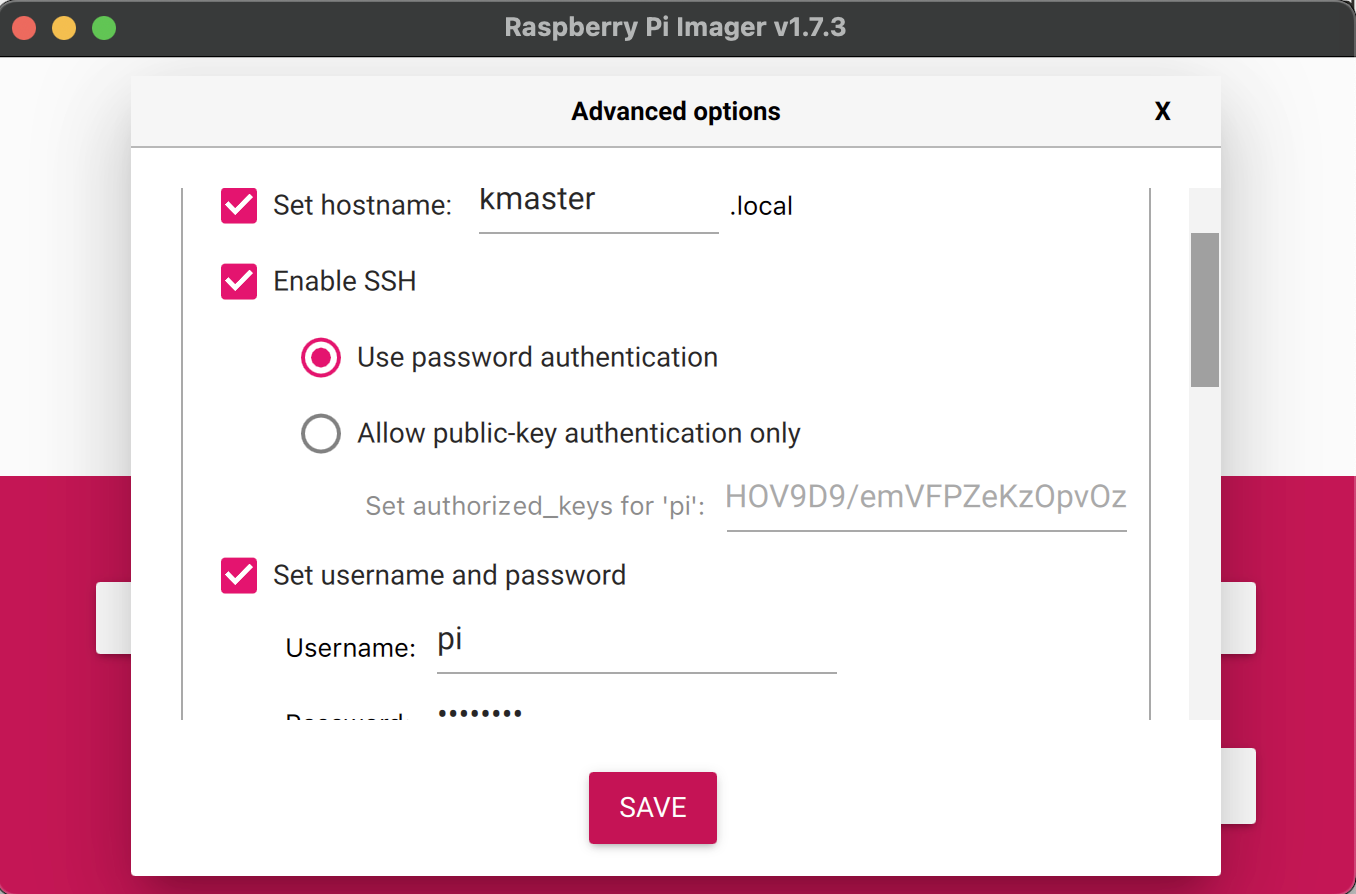
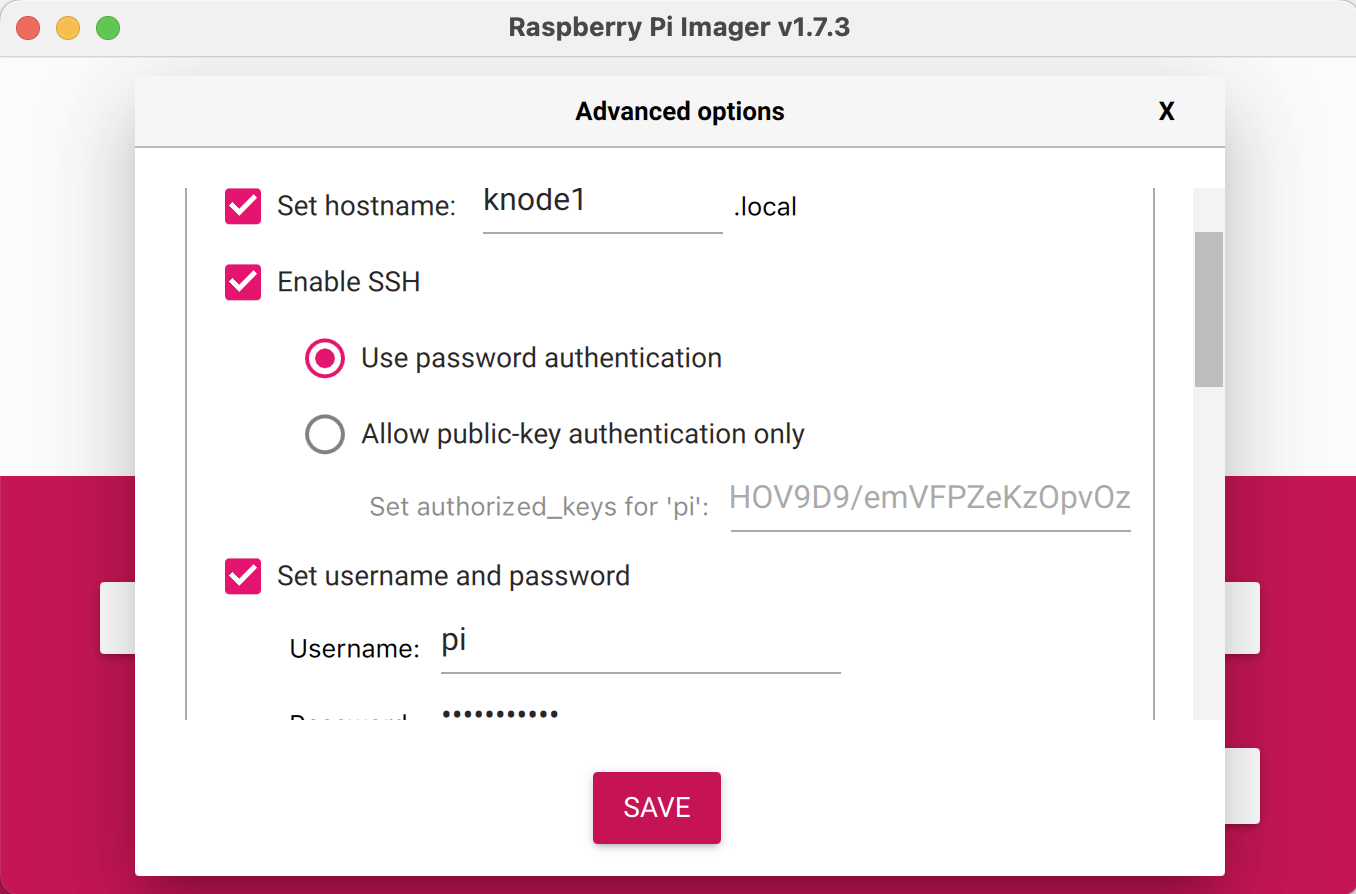
update blog with better wording and odroid setup

diff --git a/content/blog/lightweight-k3s-cluster-raspberry-pi.md b/content/blog/lightweight-k3s-cluster-raspberry-pi.md
@@ -5,71 +5,113 @@ draft: false
 featured: true
 weight: 1
 ---
-As a developer, I was tasked with setting up a local Kubernetes cluster for deploying and managing internal toolings within my company. We decided to set up the cluster on Raspberry Pis in our office. By using Raspberry Pis, we were able to utilize existing hardware and avoid expensive infrastructure costs. However, setting up a full Kubernetes cluster can be challenging, especially on resource-constrained devices like Raspberry Pis. That's why we decided to use k3s, a lightweight version of Kubernetes designed for edge computing and IoT scenarios.
+As a developer at Infraspec, I am responsible for managing internal tooling and ensuring the smooth operation of local
+tooling and network services in our office. We had a cluster of Raspberry Pi devices available and saw an opportunity to
+utilize them by setting up a Kubernetes cluster. This allowed us to cost-effectively utilize our existing hardware and
+avoid the expense of purchasing additional infrastructure. However, we recognized that configuring a full Kubernetes
+cluster on resource-constrained devices like Raspberry Pis could be challenging. To mitigate these difficulties, we
+chose to use k3s, a lightweight version of Kubernetes optimized for edge computing and Internet of Things (IoT)
+environments.
 
-To automate the process and make it easier, we used ansible playbooks and GitHub Actions.
+To automate the process, we used Ansible to set up the k3s cluster and GitHub Actions to deploy services on top of it.
 
-In this blog, I want to share my learnings and a step-by-step configuration setup to provision a lightweight k3s cluster on Raspberry Pis.
+In this blog, I want to share my learnings and a step-by-step configuration setup to provision a lightweight k3s cluster
+on Raspberry Pis.
 
 ### 1. Our Hardware Setup
 
-  ![My Collection](/images/blog/lightweight-k3s-cluster-raspberry-pi/collection.png)
+![My Collection](/images/blog/lightweight-k3s-cluster-raspberry-pi/collection.png)
 
 1. We used 6 Raspberry Pis in total, including:
     - 3 Raspberry Pi 4's with 4GB of RAM
     - 1 Raspberry Pi 4 with 8GB of RAM
     - 2 Raspberry Pi 4's with 2GB of RAM
-    
-    These Raspberry Pi's were used as data nodes in our k3s cluster.
-    
+
+   These Raspberry Pi's were used as data nodes in our k3s cluster.
+
 2. For the control plane, we used an [ODROID-H2](https://www.hardkernel.com/shop/odroid-h2/) which had:
     - 32GB of RAM
     - 500GB SSD
-3. We also used a [NETGEAR GS310TP 8 Port POE Switch](https://www.netgear.com/support/product/GS310TP.aspx#docs), which allowed us to pass both electric power and data along the same twisted-pair Ethernet cabling, making it easier to set up and power multiple devices at once.
+3. We also used a [NETGEAR GS310TP 8 Port POE Switch](https://www.netgear.com/support/product/GS310TP.aspx#docs), which
+   allowed us to pass both electric power and data along the same twisted-pair Ethernet cabling, making it easier to set
+   up and power multiple devices at once.
 
-If you want to know more about Power over Ethernet (PoE), check out this [whitepaper](https://www.saelig.com/supplier/amplicon/PoE-white-paper.pdf). 
+If you want to know more about Power over Ethernet (PoE), check out
+this [whitepaper](https://www.saelig.com/supplier/amplicon/PoE-white-paper.pdf).
 
-Our hardware setup was sufficient for running a k3s cluster for our internal toolings, although it may not have been top-of-the-line. The [ODROID-H2](https://www.hardkernel.com/shop/odroid-h2/) had enough RAM and SSD storage to serve as the control plane. Although the hardware specifications may not be impressive, they were adequate for our needs.
+Our hardware setup was sufficient for running a k3s cluster for our internal tooling, although it may not have been
+top-of-the-line. The [ODROID-H2](https://www.hardkernel.com/shop/odroid-h2/) had enough RAM and SSD storage to serve as
+the control plane. Although the hardware specifications may not be impressive, they were adequate for our needs.
+
+It's important to note that reliability was not a primary concern for our setup, as we were primarily focused on using
+available resources efficiently.
 
 ### 2. Setup Raspberry Pi headless
 
-Setting up a Raspberry Pi headless (without a monitor and keyboard) is a convenient way to use your Pi as a server or in a remote location. I followed these steps:
+To use Raspberry Pis as nodes in our k3s cluster we need to set up Raspberry Pi headless, which means we will not be
+using a monitor, keyboard, or mouse. Instead, we will be using SSH to connect to the Raspberry Pi and configure it
+remotely. Headles setup doesn't have GUI attached to it.
 
-1. Download and install the Raspberry Pi Imager on your computer. You can find it on the official Raspberry Pi website or use the command 
+1. Download and install the Raspberry Pi Imager on your computer. You can find it on the official Raspberry Pi website
+   or use the command
    ```bash
     sudo apt install rpi-imager
    ``` 
 2. Open the Raspberry Pi Imager and select the "CHOOSE OS" option.
-3. From the list of available operating systems, select "Raspberry Pi OS (other)", and then choose "Raspberry Pi OS Lite (64-bit)" and click "CHOOSE STORAGE".
+3. From the list of available operating systems, select "Raspberry Pi OS (other)", and then choose "Raspberry Pi OS
+   Lite (64-bit)" and click "CHOOSE STORAGE".
 
    ![Choose OS](/images/blog/lightweight-k3s-cluster-raspberry-pi/choose_os.png)
 
    ![Choose Storage](/images/blog/lightweight-k3s-cluster-raspberry-pi/choose_storage.png)
 
 4. Select the SD card you want to use for your Raspberry Pi and click on the gear icon to configure Raspberry Pi.
-   
+
    ![Selectl SD Card](/images/blog/lightweight-k3s-cluster-raspberry-pi/select_sd_card.png)
 
-5. Set up a unique hostname for every Raspberry Pi, like kmaster for the control plane node and knode1, knode2, knode3, etc for the data nodes. Activate ssh with password authentication and pass in your ssh credentials. It is recommended to provide the same username and password to all the Raspberry Pis as it becomes easier to run ansible on all the nodes.
-    
+5. Set up a unique hostname for every Raspberry Pi, like **`knode1`**, **`knode2`**, **`knode3`**, etc for each node.
+   Activate ssh with
+   password authentication and pass in your ssh credentials. It is recommended to provide the same username and password
+   to all the Raspberry Pis as it becomes easier to run ansible on all the nodes.
+
    ![Configure Pis](/images/blog/lightweight-k3s-cluster-raspberry-pi/configure_pis.png)
-    
-6. Next, click "WRITE" and note that this will clear all the existing data on the SD card. Wait for the image to be written to the SD card. This may take a while, so grab a cup of tea and relax.
+
+6. Next, click "WRITE" and note that this will clear all the existing data on the SD card. Wait for the image to be
+   written to the SD card. This may take a while, so grab a cup of tea and relax.
 
    ![Write Image](/images/blog/lightweight-k3s-cluster-raspberry-pi/write_image.png)
 
 7. Once the image has been written, eject the SD card and insert it into your Raspberry Pi.
-8. Next, connect your Raspberry Pi to your router using Ethernet cables, and make sure to attach a power source. I'm using a [NETGEAR GS310TP 8 Port POE Switch](https://www.netgear.com/support/product/GS310TP.aspx#docs), which allows me to pass both electric power and data along the same twisted-pair Ethernet cabling. This makes it easier to set up and power multiple devices at once.
+8. Next, connect your Raspberry Pi to your router using Ethernet cables, and make sure to attach a power source. I'm
+   using a [NETGEAR GS310TP 8 Port POE Switch](https://www.netgear.com/support/product/GS310TP.aspx#docs), which allows
+   me to pass both electric power and data along the same twisted-pair Ethernet cabling. This makes it easier to set up
+   and power multiple devices at once.
 
    ![Office Setup](/images/blog/lightweight-k3s-cluster-raspberry-pi/office_setup.png)
 
- 
+Note that, we'll continuously be working on improving our setup, and booting Raspberry Pis from network is one of the
+things we'll be working on in next iteration. Once it's done, we'll update this blog.
+
+### 3. Setup ODROID-H2
+
+We installed Ubuntu Server on ODROID-H2. Ubuntu Server, is an operating system for a server machine based on Ubuntu. It
+is a stripped-down version of the Ubuntu Desktop, shipped with the necessary tools to set up and maintain a server
+machine.
+
+We used [balenaEtcher](https://www.balena.io/etcher/) to boot SD card with Ubuntu Server to install it on ODROID-H2.
+
+Configure ODROID-H2 to allow SSH connection and set **`hostname`** to **`kmaster`** .
 
 ### 3. Setup k3s Cluster
 
-To automate the process of setting up our Kubernetes cluster, I wrote ansible playbooks to handle the configuration and deployment of the cluster. These playbooks allowed us to easily set up and manage our cluster and streamline the process of deploying applications on it.
+To automate the process of setting up our Kubernetes cluster, I wrote ansible playbooks to handle the configuration and
+deployment of the cluster. These playbooks allowed us to easily set up and manage our cluster and streamline the process
+of deploying applications on it.
 
-If you have used ansible before, you may already be familiar with the concept of an inventory. The simplest inventory is a single file with a list of hosts and groups. In my case, Here’s my `inventory.yaml` to define the specific hosts or nodes that I wanted to run my playbook tasks on.
+If you have used ansible before, you may already be familiar with the concept of an inventory. The simplest inventory is
+a single file with a list of hosts and groups. In my case, Here’s my **`inventory.yaml`** to define the specific hosts
+or
+nodes that I wanted to run my playbook tasks on.
 
 ```yaml
 k3s_cluster:
@@ -109,19 +151,35 @@ k3s_cluster:
           ansible_python_interpreter: /usr/bin/python3
 ```
 
-This ansible inventory defines a group called "k3s_cluster" with two child groups: "control_plane" and "data_plane". The "control_plane" group contains a single host called "kube-control-01", which is specified with its ansible_user, ansible_host, and ansible_python_interpreter variables. The "data_plane" group contains six hosts, each of which is specified with the same variables as the "control_plane" host.
+This ansible inventory defines a group called **`k3s_cluster`** with two child groups:
+**`control_plane`** and **`data_plane`**.
+The **`control_plane`** group contains a single host called **`kube-control-01`**, which is specified
+with its **`ansible_user`**, **`ansible_host`**, and **`ansible_python_interpreter`** variables. The **`data_plane`**
+group contains six hosts, each of which is specified with the same variables as the **`control_plane`** host.
 
-The ansible_user variable specifies the username that ansible should use to connect to the host. The ansible_host variable specifies the IP address or hostname of the host. The ansible_python_interpreter variable specifies the path to the python interpreter on the host, which is used by ansible to execute tasks on the host.
+The **`ansible_user`** variable specifies the username that ansible should use to connect to the host.
+The **`ansible_host`** variable specifies the IP address or hostname of the host. The **`ansible_python_interpreter`**
+variable specifies the path to the python interpreter on the host, which is used by ansible to execute tasks on the
+host.
 
-The "k3s_control_node" variable in the "kube-control-01" host is a custom variable that specifies that this host is a control plane node in the k3s cluster. This variable can be used by ansible tasks and templates to customize the behavior of the role for control plane nodes.
+The **`k3s_control_node`** variable in the **`kube-control-01`** host is a custom variable that specifies that this host
+is a control plane node in the k3s cluster. This variable can be used by ansible tasks and templates to customize the
+behavior of the role for control plane nodes. Note that reliability is not our concern here, so we are not using a
+highly available control plane, so we've used a single control plane node.
 
-Overall, this ansible inventory defines a group of hosts that can be used to set up a k3s cluster, with a single control plane node and multiple data plane nodes. It specifies the necessary connection and authentication details for each host, as well as any custom variables that may be needed by ansible tasks and templates.
+Overall, this ansible inventory defines a group of hosts that can be used to set up a k3s cluster, with a single control
+plane node and multiple data plane nodes. It specifies the necessary connection and authentication details for each
+host, as well as any custom variables that may be needed by ansible tasks and templates.
 
-I used [PyratLabs/ansible-role-k3s](https://github.com/PyratLabs/ansible-role-k3s) which helps automate the process of provisioning a k3s cluster. It provides a set of ansible tasks and templates that can be used to install and configure k3s on a set of nodes.
+I used [PyratLabs/ansible-role-k3s](https://github.com/PyratLabs/ansible-role-k3s) which helps automate the process of
+provisioning a k3s cluster. It provides a set of ansible tasks and templates that can be used to install and configure
+k3s on a set of nodes.
 
-Now, to use the [PyratLabs/ansible-role-k3s](https://github.com/PyratLabs/ansible-role-k3s) role in our playbook, we first added it to our `requirements.yaml` file. This allowed us to specify the role as a dependency for our playbook and ensured that it would be installed and configured correctly.
+Now, to use the [PyratLabs/ansible-role-k3s](https://github.com/PyratLabs/ansible-role-k3s) role in our playbook, we
+first added it to our **`requirements.yaml`** file. This allowed us to specify the role as a dependency for our playbook
+and ensured that it would be installed and configured correctly.
 
-The syntax for adding a role to the `requirements.yaml` file looks like this:
+The syntax for adding a role to the **`requirements.yaml`** file looks like this:
 
 ```yaml
 roles:
@@ -130,7 +188,8 @@ roles:
     version: v3.3.0
 ```
 
-Once we had added the role to the `requirements.yaml` file, we run the command to install the role and its dependencies. 
+Once we had added the role to the **`requirements.yaml`** file, we run the command to install the role and its
+dependencies.
 
 ```bash
 ansible-galaxy install -r requirements.yaml
@@ -138,7 +197,7 @@ ansible-galaxy install -r requirements.yaml
 
 This downloaded and installed the role from the specified repository, making it available for use in our playbook.
 
-To use the role in our playbook `site.yaml`, we included it in the list of roles to be executed, like this:
+To use the role in our playbook **`site.yaml`**, we included it in the list of roles to be executed, like this:
 
 ```yaml
 - hosts: k3s_cluster
@@ -151,7 +210,8 @@ To use the role in our playbook `site.yaml`, we included it in the list of roles
     - role: xanmanning.k3s
 ```
 
-This playbook contains a single role called "xanmanning.k3s", which is responsible for installing and configuring k3s on the hosts in the "k3s_cluster" group.
+This playbook contains a single role called **`xanmanning.k3s`**, which is responsible for installing and configuring
+k3s on the hosts in the **`k3s_cluster`** group.
 
 Once you have Ansible installed, you can use the following command to apply the playbook:
 
@@ -159,10 +219,19 @@ Once you have Ansible installed, you can use the following command to apply the 
 ansible-playbook -i inventory.yaml site.yaml --extra-vars "ansible_sudo_pass=YOUR_PASSWORD"
 ```
 
-This command will apply the playbook defined in **`site.yaml`** to the hosts defined in **`inventory.yaml`**.The **`--extra-vars`** flag is used to pass extra variables to the playbook at runtime. In this case, the **`ansible_sudo_pass`** variable is being set to **`YOUR_PASSWORD`**. This variable will be used by the playbook tasks to specify the password that should be used when running tasks that require **`sudo`** privileges. By running this playbook, we will be able to provision a k3s cluster on the specified hosts using Ansible.
+This command will apply the playbook defined in **`site.yaml`** to the hosts defined in **`inventory.yaml`**.
+The **`--extra-vars`** flag is used to pass extra variables to the playbook at runtime.
+In this case, the **`ansible_sudo_pass`** variable is being set to **`YOUR_PASSWORD`**. This variable will be used by
+the playbook tasks to specify the password that should be used when running tasks that require **`sudo`** privileges. By
+running this playbook, we will be able to provision a k3s cluster on the specified hosts using Ansible.
 
-### Conclusion
+### Key Takeaways
 
-One of the key learnings from this project was the importance of automating the process of setting up this Kubernetes Cluster. By using ansible playbooks, I was able to streamline the configuration and deployment of the cluster, making it easier to set up and manage. If I had chosen to go the manual route of setting up a k3s cluster, rather than using automation tools like Ansible, the process would likely have been much more time-consuming and prone to errors.
+One of the key takeaways from this project was the importance of automating the process of setting up this Kubernetes
+Cluster. By using ansible playbooks, I was able to streamline the configuration and deployment of the cluster, making it
+easier to set up and manage. If I had chosen to go the manual route of setting up a k3s cluster, rather than using
+automation tools like Ansible, the process would likely have been much more time-consuming and prone to errors.
 
-Another learning was the value of using a lightweight version of Kubernetes like k3s, which is specifically designed for edge computing and IoT scenarios. This allowed me to set up a cost-effective and efficient cluster that was well-suited for my needs.
+Another learning was the value of using a lightweight version of Kubernetes like k3s, which is specifically designed for
+edge computing and IoT scenarios. This allowed me to set up a cost-effective and efficient cluster that was well-suited
+for my needs.
